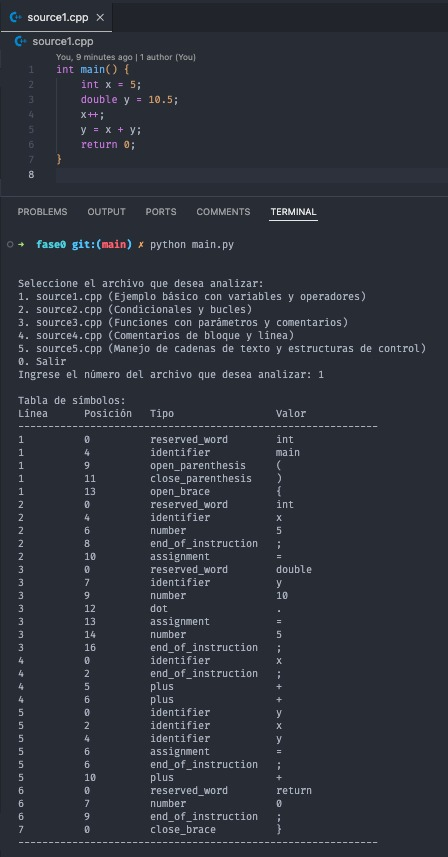
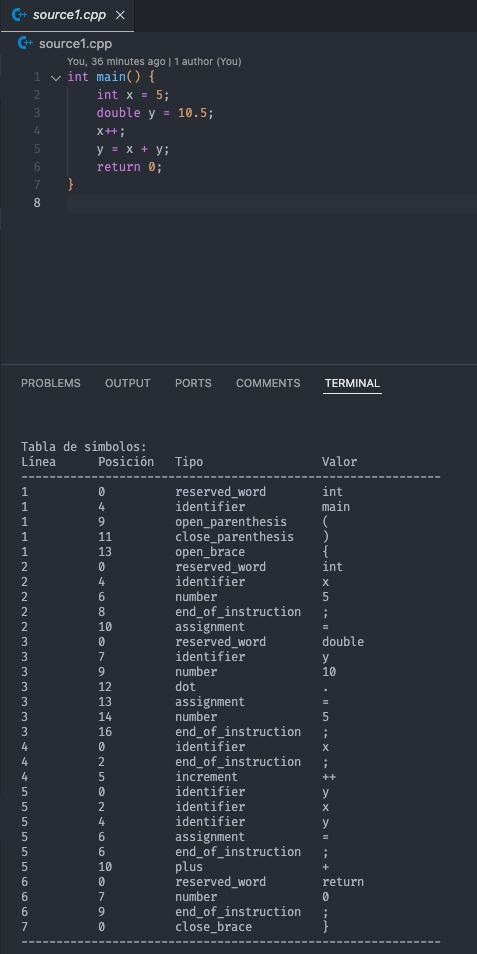
Recognize header files and #include statement and more operators

diff --git a/main.py b/main.py
@@ -27,7 +27,7 @@ comment_single_line_regex = r"//.*"
 comment_block_regex = r"/\*[\s\S]*?\*/"
 number_regex = r"\d+(\.\d+)?"
 string_regex = r'"([^"\\]*(\\.[^"\\]*)*)"'
-complex_operator_regex = r"(==|!=|>>|<<|::)"  # Operadores compuestos
+complex_operator_regex = r"(==|!=|>>|<<|::|\+\+|--|\+=|-=|\*=|/=|&&|\|\||>=|<=)"  # Operadores compuestos
 simple_operator_regex = r"[+\-*/%<>=!&|^~]"
 header_file_regex = r"<[a-zA-Z0-9_]+\.h>"
 
@@ -62,8 +62,15 @@ def analyze_code(file):
             tokens.append((start_pos, 'string', string_value))
             line = line.replace(string_value, '', 1)  # Remove the string from the line to process the rest
 
+        # Reconocer directivas de preprocesador como #include
+        if line.strip().startswith('#'):
+            preprocessor_match = re.search(r'#\s*include', line)
+            if preprocessor_match:
+                add_symbol(line_num, current_pos, 'preprocessor_include', preprocessor_match.group())
+                continue
+
         # Reconocer encabezados como <iostream> o <algo.h>
-        header_match = re.search(r'<[a-zA-Z0-9_]+>', line)
+        header_match = re.search(header_file_regex, line)
         if header_match:
             header_value = header_match.group()
             start_pos = line.find(header_value)
@@ -105,7 +112,6 @@ def analyze_code(file):
 
             else:
                 tokens.append((current_pos, 'error', token))
-            
             current_pos += len(token) + 1
 
         # Sort tokens by their position in the line

diff --git a/tokens.py b/tokens.py
@@ -30,6 +30,7 @@ tokens = [
 
 # Reserved words
 reserved_words = {
+    'include': 'preprocessor',
     'class': 'reserved_word',
     'if': 'reserved_word',
     'else': 'reserved_word',
@@ -79,7 +80,15 @@ operators = {
     '>=': 'greater_equal_than',
     '<=': 'less_equal_than',
     '::': 'scope_resolution',
-    '!': 'not_operator'
+    '!': 'not_operator',
+    '++': 'increment',
+    '--': 'decrement',
+    '+=': 'plus_equal',
+    '_=': 'minus_equal',
+    '*=': 'multiplication_equal',
+    '/=': 'division_equal',
+    '%=': 'modulus_equal',
+    '&&=': 'and_equal',
 }
 
 # Delimiters

diff --git a/README.md b/README.md
@@ -23,6 +23,7 @@ Las siguientes palabras reservadas han sido definidas para el analizador léxico
 
 | Palabra Reservada | Función                                                                         |
 |-------------------|---------------------------------------------------------------------------------|
+| **include**       | Directiva de preprocesador para incluir archivos de encabezado.                 |
 | **if**            | Permite evaluar una condición y ejecutar un bloque de código si es verdadera.    |
 | **else**          | Se ejecuta cuando la condición del bloque `if` es falsa.                        |
 | **class**         | Define una clase que puede contener propiedades y métodos.                      |
@@ -55,51 +56,68 @@ Se han definido los siguientes tokens con sus respectivas expresiones regulares 
 
 | Token                 | Expresión Regular                    | Descripción                                                           |
 |-----------------------|--------------------------------------|-----------------------------------------------------------------------|
-| **header_file**    | `r'<[a-zA-Z0-9_]+>'`        | Representa un archivo de encabezado entre `<` y `>` como `<iostream>` o `<string>` o `algo.h`. |
+| **header_file**    | `r'<[a-zA-Z0-9_]+>'`        | Representa un archivo de encabezado entre `<` y `>` como `<iostream>` o `<string>`. |
 | **identifier**         | `r"[a-zA-Z_][a-zA-Z0-9_]*"`         | Detecta identificadores válidos (caracteres alfanuméricos o guiones).  |
-| **número**             | `r"\d+(\.\d+)?"`                 | Detecta números enteros y flotantes.                                   |
+| **number**             | `r"\d+(\.\d+)?"`                 | Detecta números enteros y flotantes.                                   |
 | **preprocessor**       | `r"#include"`                       | Detecta directivas de preprocesador como `#include`.                   |
-| **coma**               | `r','`                              | Identifica comas usadas como separadores en expresiones o argumentos.  |
-| **comentario**         | `r"//.*"`                           | Identifica comentarios de una línea que empiezan con `//`.             |
-| **comentario_bloque**  | `r"/\*[\s\S]*?\*/"`             | Identifica comentarios de bloque entre `/*` y `*/`.                    |
-| **fin_de_instrucción** | `r';'`                              | Marca el final de una instrucción (normalmente un punto y coma `;`).   |
-| **paréntesis_de_apertura** | `r'\('`                        | Identifica el paréntesis de apertura `(`.                              |
-| **paréntesis_de_cierre**   | `r'\)'`                        | Identifica el paréntesis de cierre `)`.                                |
-| **llave_de_apertura**      | `r'\{'`                        | Identifica la llave de apertura `{`, que inicia un bloque de código.   |
-| **llave_de_cierre**        | `r'\}'`                        | Identifica la llave de cierre `}`, que termina un bloque de código.     |
-| **punto**              | `r'\.'`                            | Identifica el punto `.` usado en el acceso a propiedades o métodos.    |
-| **asignación**         | `r'='`                              | Identifica el operador de asignación `=`.                              |
-| **resolución_de_ámbito** | `r'::'`                           | Identifica el operador de resolución de ámbito `::` en C++.            |
-| **cadena**             | `r'"([^"\\]*(\\.[^"\\]*)*)"'` | Detecta cadenas de texto delimitadas por comillas dobles.              |
-| **igual_a**            | `r'=='`                             | Detecta el operador de igualdad `==`.                                  |
-| **diferente_de**       | `r'!='`                             | Detecta el operador de desigualdad `!=`.                               |
-| **desplazamiento_izq** | `r'<<'`                             | Detecta el operador de desplazamiento a la izquierda `<<`.             |
-| **desplazamiento_der** | `r'>>'`                             | Detecta el operador de desplazamiento a la derecha `>>`.               |
+| **comma**              | `r','`                              | Identifica comas usadas como separadores en expresiones o argumentos.  |
+| **comment**            | `r"//.*"`                           | Identifica comentarios de una línea que empiezan con `//`.             |
+| **block_comment**      | `r"/\*[\s\S]*?\*/"`             | Identifica comentarios de bloque entre `/*` y `*/`.                    |
+| **end_of_instruction** | `r';'`                              | Marca el final de una instrucción (normalmente un punto y coma `;`).   |
+| **open_parenthesis**   | `r'\('`                             | Identifica el paréntesis de apertura `(`.                              |
+| **close_parenthesis**  | `r'\)'`                             | Identifica el paréntesis de cierre `)`.                                |
+| **open_brace**         | `r'\{'`                             | Identifica la llave de apertura `{`, que inicia un bloque de código.   |
+| **close_brace**        | `r'\}'`                             | Identifica la llave de cierre `}`, que termina un bloque de código.     |
+| **dot**                | `r'\.'`                             | Identifica el punto `.` usado en el acceso a propiedades o métodos.    |
+| **assignment**         | `r'='`                              | Identifica el operador de asignación `=`.                              |
+| **scope_resolution**   | `r'::'`                             | Identifica el operador de resolución de ámbito `::` en C++.            |
+| **string**             | `r'"([^"\\]*(\\.[^"\\]*)*)"'` | Detecta cadenas de texto delimitadas por comillas dobles.              |
+| **equal_to**           | `r'=='`                             | Detecta el operador de igualdad `==`.                                  |
+| **not_equal**          | `r'!='`                             | Detecta el operador de desigualdad `!=`.                               |
+| **left_shift**         | `r'<<'`                             | Detecta el operador de desplazamiento a la izquierda `<<`.             |
+| **right_shift**        | `r'>>'`                             | Detecta el operador de desplazamiento a la derecha `>>`.               |
+| **increment**          | `r'\+\+'`                           | Detecta el operador de incremento `++`.                                |
+| **decrement**          | `r'--'`                             | Detecta el operador de decremento `--`.                                |
+| **plus_equal**         | `r'\+='`                            | Detecta el operador de suma y asignación `+=`.                         |
+| **minus_equal**        | `r'-='`                             | Detecta el operador de resta y asignación `-=`.                        |
+| **times_equal**        | `r'\*='`                            | Detecta el operador de multiplicación y asignación `*=`.               |
+| **divide_equal**       | `r'/='`                             | Detecta el operador de división y asignación `/=`.                     |
+| **modulus**            | `r'%'`                              | Operador que obtiene el resto de una división.                         |
+| **and_operator**       | `r'&&'`                             | Operador lógico AND.                                                   |
+| **or_operator**        | `r'\|\|'`                           | Operador lógico OR.                                                    |
+| **negation**           | `r'!'`                              | Operador de negación lógica.                                           |
 
 ### Operadores
 
-El analizador reconoce diversos operadores, incluidos:
+El analizador reconoce los siguientes operadores utilizados en C++:
 
-| **Token**        | **Expresión regular/regla** | **Explicación**                                                 |
-|------------------|-----------------------------|-----------------------------------------------------------------|
-| **mayor**        | `r'>'`                      | Operador que compara si el valor de la izquierda es mayor.       |
-| **mayor_igual**  | `r'>='`                     | Operador que compara si el valor de la izquierda es mayor o igual.|
-| **menor**        | `r'<'`                      | Operador que compara si el valor de la izquierda es menor.       |
-| **menor_igual**  | `r'<='`                     | Operador que compara si el valor de la izquierda es menor o igual.|
-| **igual_que**    | `r'=='`                     | Operador que compara si dos valores son iguales.                 |
-| **distinto**     | `r'!='`                     | Operador que compara si dos valores son diferentes.              |
-| **mas**          | `r'\+'`                     | Operador de suma.                                               |
-| **menos**        | `r'-'`                      | Operador de resta.                                              |
-| **multiplicacion**| `r'\*'`                    | Operador de multiplicación.                                     |
-| **division**     | `r'/'`                      | Operador de división.                                           |
-| **modulo**       | `r'%'`                      | Operador que obtiene el resto de una división.                  |
-| **and_operator** | `r'&&'`                     | Operador lógico AND.                                            |
-| **or_operator**  | `r'\|\|'`                   | Operador lógico OR.                                             |
-| **negacion**     | `r'!'`                      | Operador lógico de negación.                                    |
-| **scope_resolution** | `r'::'`                 | Operador de resolución de ámbito en C++.                        |
-| **left_shift**   | `r'<<'`                     | Operador de desplazamiento a la izquierda.                      |
-| **right_shift**  | `r'>>'`                     | Operador de desplazamiento a la derecha.                        |
-| **!**            | `r'!'`                      | Operador de negación lógica.                                    |
+| **Token**            | **Expresión regular**                | **Descripción**                                                   |
+|----------------------|--------------------------------------|-------------------------------------------------------------------|
+| **modulus**          | `%`                                  | Operador de módulo (resto de una división).                        |
+| **equal_to**         | `==`                                 | Operador que compara si dos valores son iguales.                   |
+| **not_equal**        | `!=`                                 | Operador que compara si dos valores son distintos.                 |
+| **right_shift**      | `>>`                                 | Operador de desplazamiento de bits a la derecha.                   |
+| **left_shift**       | `<<`                                 | Operador de desplazamiento de bits a la izquierda.                 |
+| **assignment**       | `=`                                  | Operador de asignación.                                            |
+| **plus**             | `+`                                  | Operador de suma.                                                  |
+| **minus**            | `-`                                  | Operador de resta.                                                 |
+| **multiplication**   | `*`                                  | Operador de multiplicación.                                        |
+| **division**         | `/`                                  | Operador de división.                                              |
+| **and_operator**     | `&&`                                 | Operador lógico AND.                                               |
+| **or_operator**      | `||`                                 | Operador lógico OR.                                                |
+| **greater_than**     | `>`                                  | Operador que compara si un valor es mayor que otro.                |
+| **less_than**        | `<`                                  | Operador que compara si un valor es menor que otro.                |
+| **greater_equal_than** | `>=`                               | Operador que compara si un valor es mayor o igual que otro.        |
+| **less_equal_than**  | `<=`                                 | Operador que compara si un valor es menor o igual que otro.        |
+| **scope_resolution** | `::`                                 | Operador de resolución de ámbito.                                  |
+| **negation**         | `!`                                  | Operador de negación lógica.                                       |
+| **increment**        | `++`                                 | Operador de incremento.                                            |
+| **decrement**        | `--`                                 | Operador de decremento.                                            |
+| **plus_equal**       | `+=`                                 | Operador de suma y asignación.                                     |
+| **minus_equal**      | `-=`                                 | Operador de resta y asignación.                                    |
+| **times_equal**      | `*=`                                 | Operador de multiplicación y asignación.                           |
+| **divide_equal**     | `/=`                                 | Operador de división y asignación.                                 |
+| **modulus_equal**    | `%=`                                 | Operador de módulo y asignación.                                   |
 
 ### Información Adicional
 
